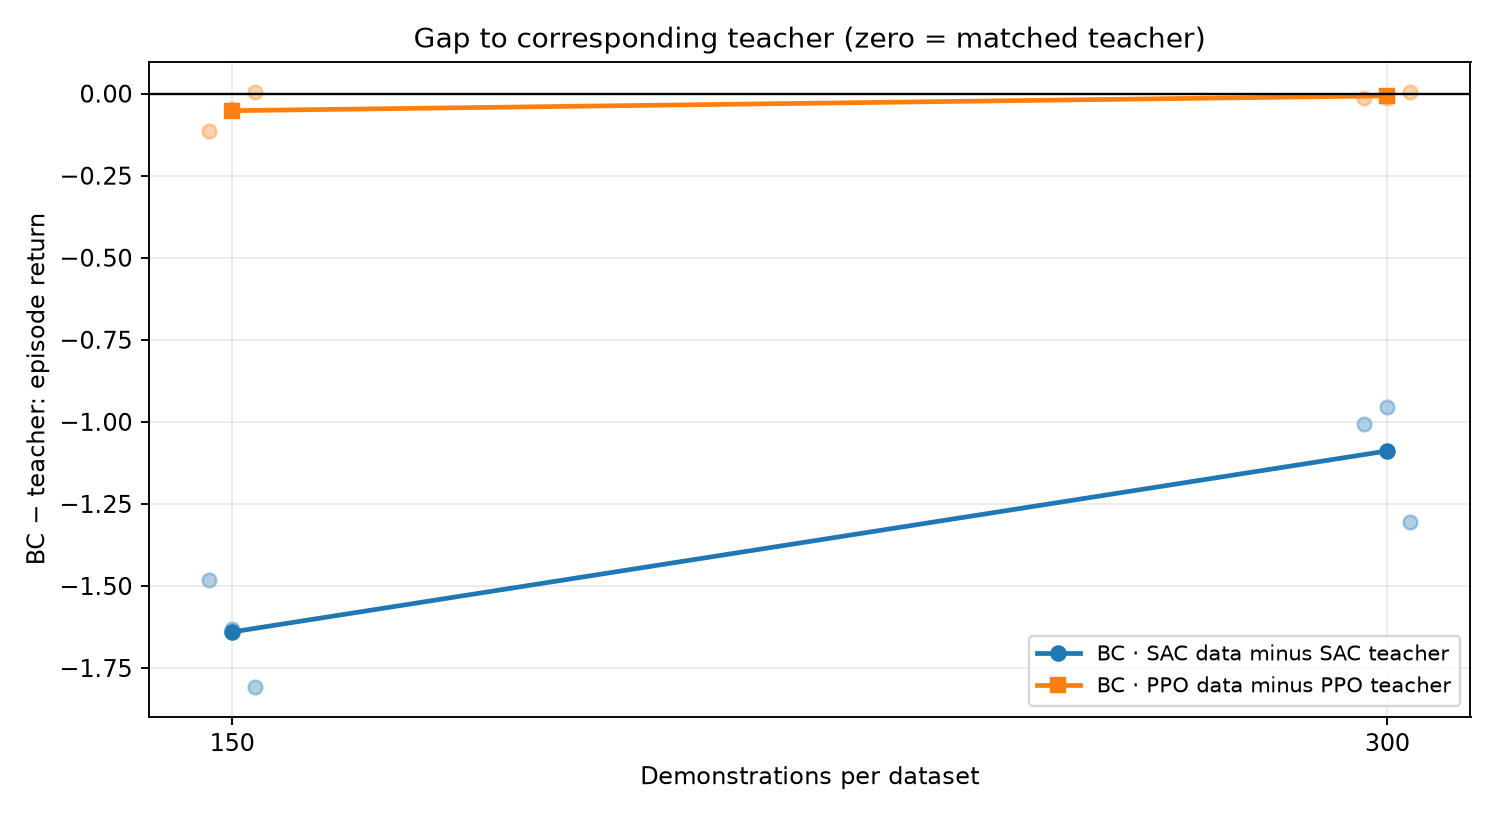
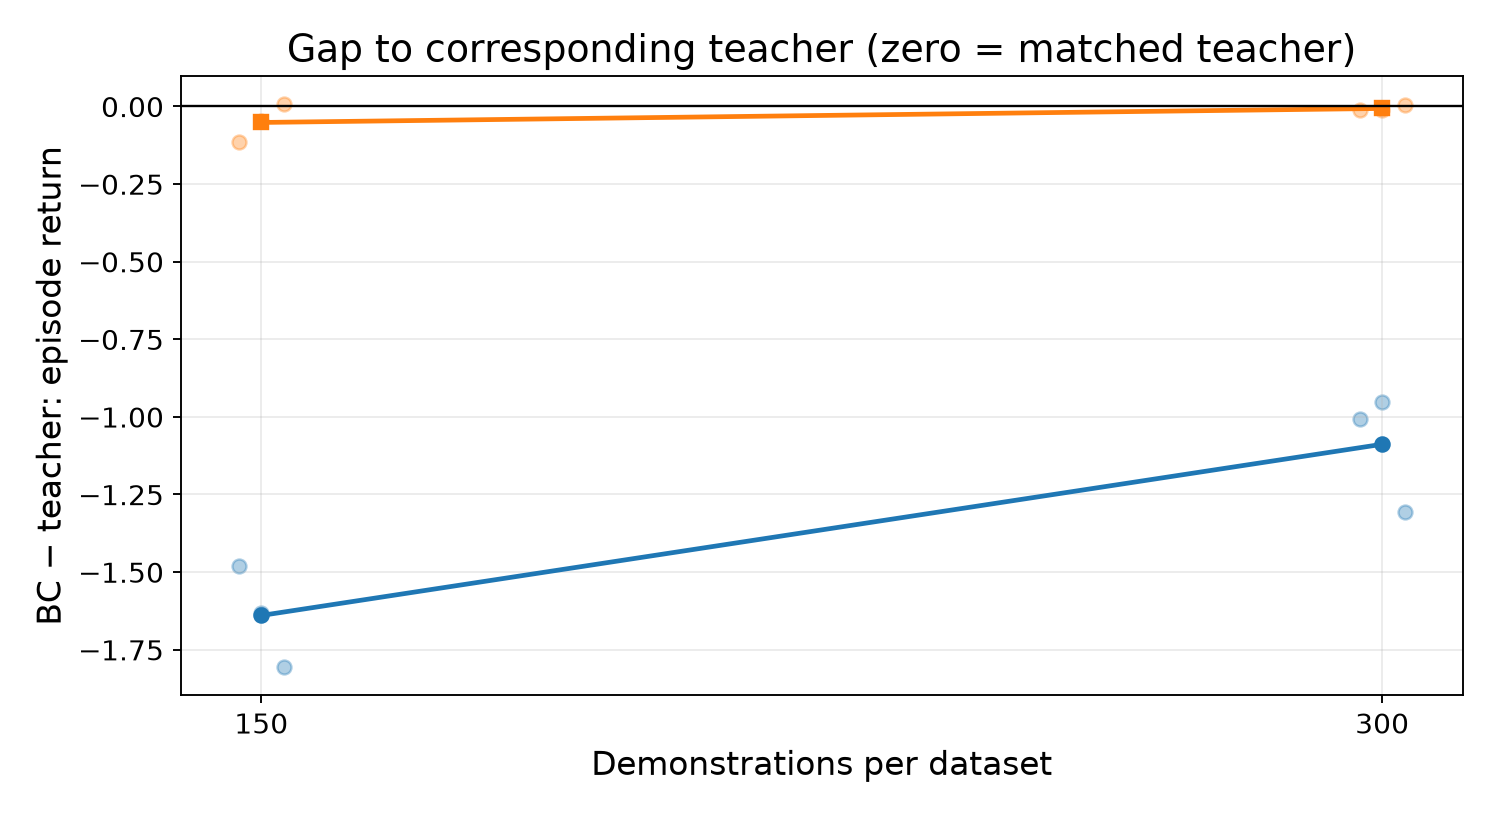
make the plots more clear

diff --git a/scripts/plot.py b/scripts/plot.py
@@ -10,7 +10,18 @@ import matplotlib.pyplot as plt
 import numpy as np
 import pandas as pd
 
-
+# ---------------------------------------------------------
+# Plot font configuration
+# ---------------------------------------------------------
+plt.rcParams.update({
+    "font.size": 13,          # Default font size
+    "axes.titlesize": 16,     # Axes titles
+    "axes.labelsize": 14,     # X and Y axis labels
+    "xtick.labelsize": 12,    # X-axis tick labels
+    "ytick.labelsize": 12,    # Y-axis tick labels
+    "legend.fontsize": 12,    # Legend text
+    "figure.titlesize": 17    # Overall figure title
+})
 # ---------------------------------------------------------
 # Experiment configuration
 # ---------------------------------------------------------
@@ -31,16 +42,16 @@ LABELS = {
 
 METRICS = {
     "episode_return": (
-        "Episode return (higher is better)",
+        "Episode return",
         "higher",
     ),
     "mean_distance": (
-        "Mean fingertip distance (m; lower is better)",
+        "Mean fingertip distance",
         "lower",
     ),
 
     "mean_control_cost": (
-        "Mean control cost (lower is better)",
+        "Mean control cost",
         "lower",
     ),
 
@@ -265,7 +276,7 @@ def seed_scatter(bc, teacher, size, metric, output):
     )
 
     ax.legend(
-        fontsize=8,
+        # fontsize=8,
         ncol=2,
         loc="best",
     )
@@ -367,7 +378,7 @@ def size_trend(bc, teacher, metric, output):
     ax.grid(alpha=0.25)
 
     ax.legend(
-        fontsize=8,
+        # fontsize=8,
         ncol=2,
         loc="best",
     )
@@ -490,7 +501,7 @@ def teacher_gap(bc, teacher, metric, output):
 
     ax.grid(alpha=0.25)
 
-    ax.legend(fontsize=9)
+    # ax.legend(fontsize=9)
 
     fig.tight_layout()
 
@@ -534,8 +545,7 @@ def main():
 
     args.out.mkdir(
         parents=True,
-        exist_ok=True,
-    )
+        exist_ok=True,)
 
     count = 0
 
@@ -546,23 +556,20 @@ def main():
             bc,
             teacher,
             metric,
-            args.out / f"size_vs_{metric}.png",
-        )
+            args.out / f"size_vs_{metric}.png", )
 
         count += 1
 
         # Compare independent seeds at each dataset size.
         for size in sorted(
-            bc.dataset_size.unique()
-        ):
+            bc.dataset_size.unique()):
 
             seed_scatter(
                 bc,
                 teacher,
                 int(size),
                 metric,
-                args.out / f"n{int(size)}_{metric}.png",
-            )
+                args.out / f"n{int(size)}_{metric}.png",)
 
             count += 1
 
@@ -570,8 +577,6 @@ def main():
         if metric in (
             "episode_return",
             "mean_distance",
-            # "final_distance",
-            # "success_2cm",
         ):
 
             if teacher_gap(
@@ -586,13 +591,6 @@ def main():
     for size in sorted(
         bc.dataset_size.unique()
     ):
-
-        # tradeoff(
-        #     bc,
-        #     teacher,
-        #     int(size),
-        #     args.out / f"quality_tradeoff_n{int(size)}.png",
-        # )
 
         count += 1
 
